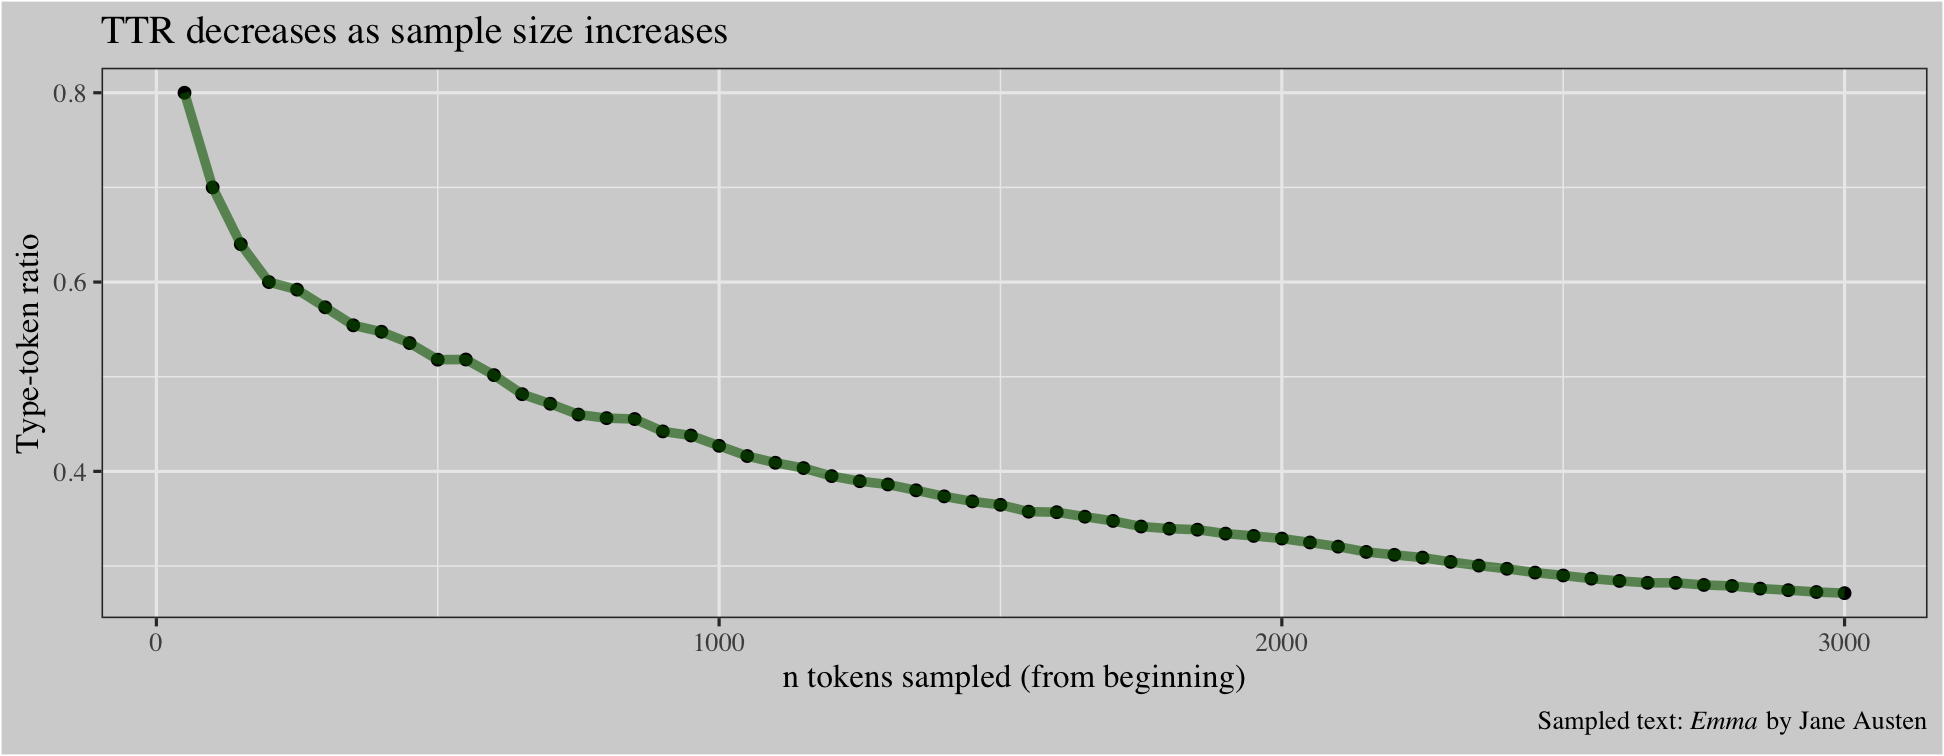
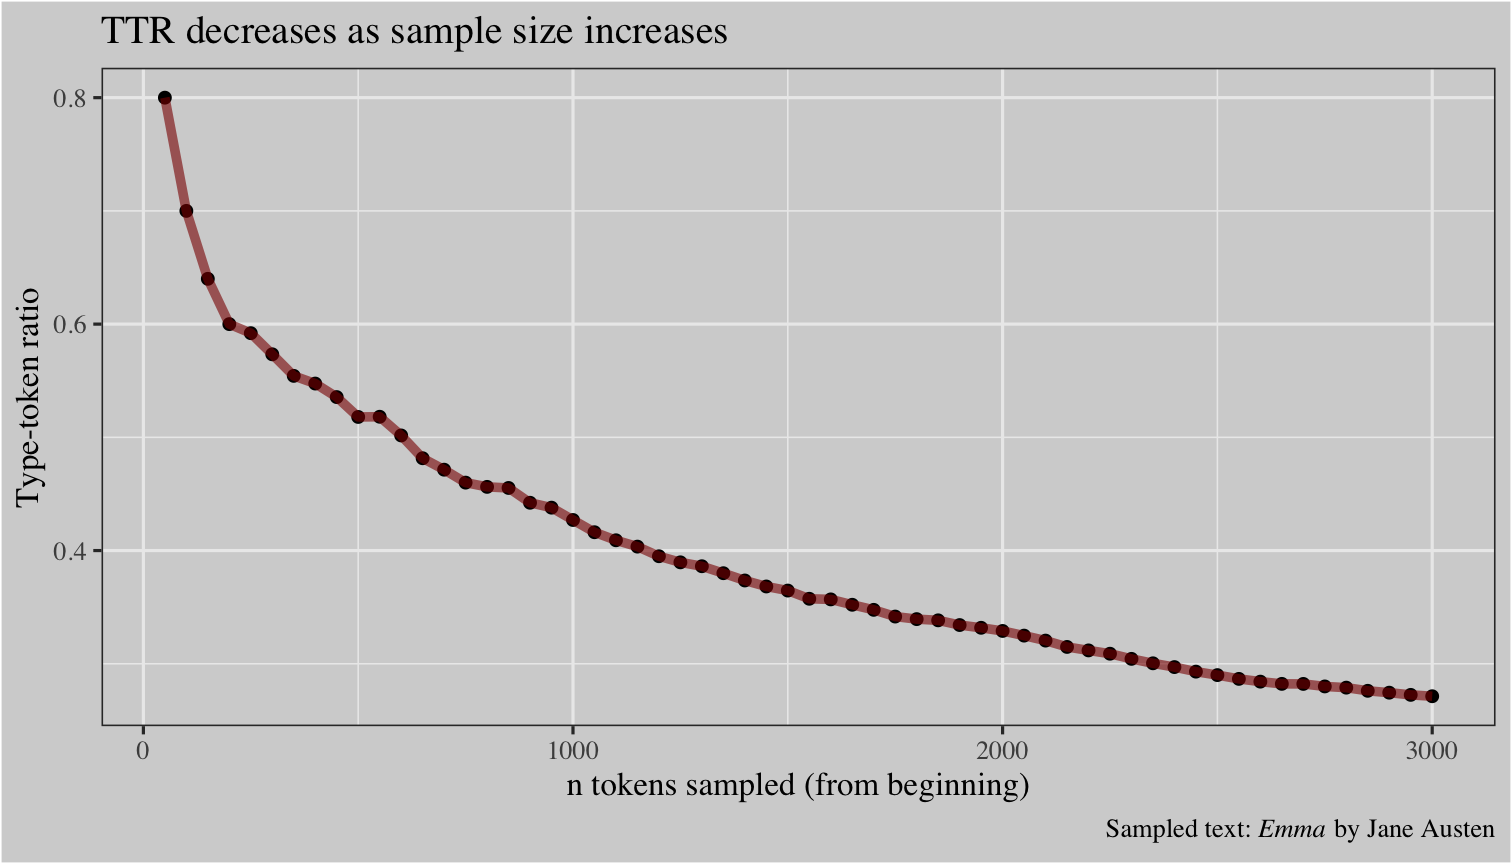
upd

diff --git a/index/index.html b/index/index.html
@@ -3,8 +3,7 @@
   <head>
     <title>Lexical Diversity Measures</title>
     <meta charset="utf-8" />
-    <meta name="author" content="Lars Hinrichs" />
-    <meta name="date" content="2022-03-16" />
+    <meta name="author" content="E 382J Digital Text Analysis Lars Hinrichs | 2022" />
     <script src="index_files/header-attrs/header-attrs.js"></script>
     <link href="index_files/tile-view/tile-view.css" rel="stylesheet" />
     <script src="index_files/tile-view/tile-view.js"></script>
@@ -23,9 +22,8 @@
 class: center, middle, inverse, title-slide
 
 # Lexical Diversity Measures
-## E 382J Digital Text Analysis
-### Lars Hinrichs
-### 2022-03-16
+## Illustrated and Compared
+### E 382J Digital Text Analysis<br>Lars Hinrichs | 2022
 
 ---
 
@@ -40,6 +38,11 @@ class: middle
 
 
 
+---
+
+## Please note
+
+For calculations in this presentation, the lexdiv utility from {quanteda, quanteda.textstats} was used. &lt;p&gt;Explanations of the different statistics that follow are largely based on the [lexdiv tutorial](https://quanteda.io/reference/textstat_lexdiv.html) in the {quanteda} documentation.
 
 ---
 
@@ -60,7 +63,7 @@ where `\(V\)` is the number of distinct types in a sample and `\(N\)` is the num
 
 ---
 
-TTR is a good and functional measure of LD. Its only problem: it is not fully robust against sample length variation. 
+TTR is a good and functional measure of LD. Its only problem: it is not robust against sample length variation. 
 &lt;p&gt;
 &lt;br&gt;&lt;br&gt;
 
@@ -72,7 +75,7 @@ The longer your sample, the lower its TTR, when the the samples are from the sam
 
 ---
 
-To demonstrate, let us work with different sample lengths from the novel previewed below. We'll start with the TTR of the first 100 words and then increment in steps of 100.
+To demonstrate, let us work with different sample lengths from the novel previewed below. We'll start with the TTR of the first 50 words and then increment in steps of 50.
 
 
 
@@ -133,8 +136,7 @@ To demonstrate, let us work with different sample lengths from the novel preview
 
 ## Define a custom function
 
-With `n` as input, extract sample of that size from  beginning of *Emma* and return a one-row tibble with `n` in the 1st column and `ttr` as the 2nd. Uses {quanteda, quanteda.textstats}.
-
+With `n` as input, extract sample of that size from  beginning of *Emma* and return a one-row tibble with `n` in the 1st column and `ttr` as the 2nd. 
 
 
 ```r
@@ -152,12 +154,15 @@ get_emma_ttr &lt;- function(n) {
   }
 ```
 
+
 ---
 
 ## Calculate a sequence of TTR
 
 Calculate TTR for *Emma*-samples from n=50 to n=3000 in steps of 50.
 
+.pull-left[
+.small[
 
 ```r
 my_seq &lt;- 
@@ -170,36 +175,30 @@ for (i in my_seq){
     rbind(ttr_tibble, get_emma_ttr(i))
 }
 ```
+]
 
-Next, we visualize that.
+]
+
+.pull-right[
+
+&lt;p&gt;&lt;img src="emma.png" height=300 /&gt;&lt;/p&gt;.right[Next, we visualize that.]
+
+]
 
 ---
 layout: false
 
-The decrease is especially steep when n is smaller.
-
-.panelset[
-
-```r
-ttr_tibble %&gt;% 
-  ggplot(aes(n_tokens, TTR)) +
-  geom_point() +
-  geom_line(size=1.5, alpha=.6, color="darkgreen") +
-  labs(title = "TTR decreases as sample size increases",
-       x="n tokens sampled (from beginning)",
-       y="Type-token ratio",
-       caption = expression(paste("Sampled text: ", italic("Emma"), " by Jane Austen"))) +
-  theme_bw(base_family = "serif") +
-  theme(panel.background = element_rect(fill = "#D3D3D3"),
-        plot.background = element_rect(fill = "#D3D3D3"))
-```
 
 &lt;img src="index_files/figure-html/unnamed-chunk-4-1.png" width="100%" /&gt;
-]
+
+
+--
+
+The decrease is especially steep when n is smaller.
 
 ---
 
-## An alternative: TTR with moving window
+## An alternative: "log-TTR"
 
 .left-column[
 Herdan's *C*
@@ -207,8 +206,6 @@ Herdan's *C*
 $$
 C = \frac{log V}{log N}
 $$
-
-a.k.a. "log-TTR"
 
 ]
 
@@ -234,6 +231,40 @@ $$
 .right-column[
 &lt;img src="index_files/figure-html/unnamed-chunk-6-1.png" width="100%" /&gt;
 
+]
+
+---
+
+## Moving-Average TTR
+
+.left-column[
+
+.small[
+The Moving-Average TTR (MATTR) calculates TTRs for a moving window of tokens from the first to the last token, computing a TTR for each window. The MATTR is the mean of the TTRs of each window.
+]
+
+]
+
+.right-column[
+
+&lt;img src="index_files/figure-html/unnamed-chunk-7-1.png" width="100%" /&gt;
+]
+
+
+---
+
+## Mean Segmental TTR
+
+.left-column[
+
+.small[
+MSTTR (a.k.a. "split TTR") splits the tokens into segments of the given size, TTR for each segment is calculated and the mean of these values returned. 
+]
+
+]
+
+.right-column[
+&lt;img src="index_files/figure-html/unnamed-chunk-8-1.png" width="100%" /&gt;
 
 ]
     </textarea>

diff --git a/index/xaringan-themer.css b/index/xaringan-themer.css
@@ -296,4 +296,8 @@ table.dataTable.hover tbody tr:hover, table.dataTable.display tbody tr:hover {
 .bg-black {
   background-color: var(--black);
 }
+.small {
+  font-size: 72%;
+  line-height: 1.4;
+}
 
